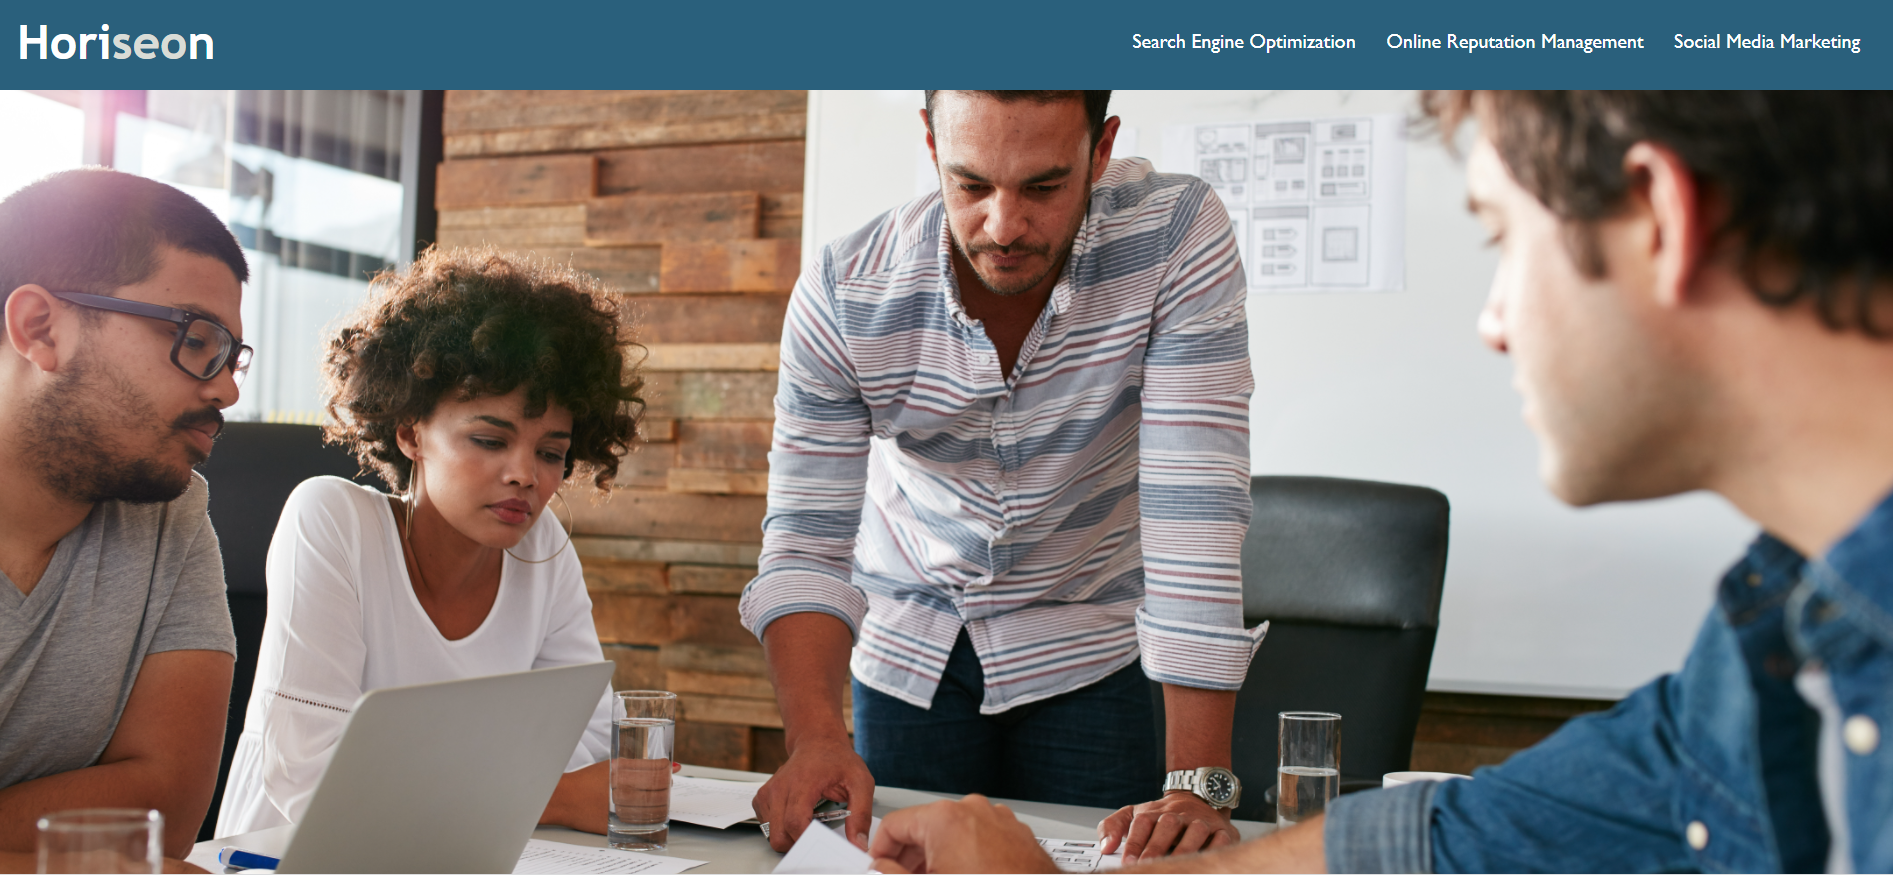
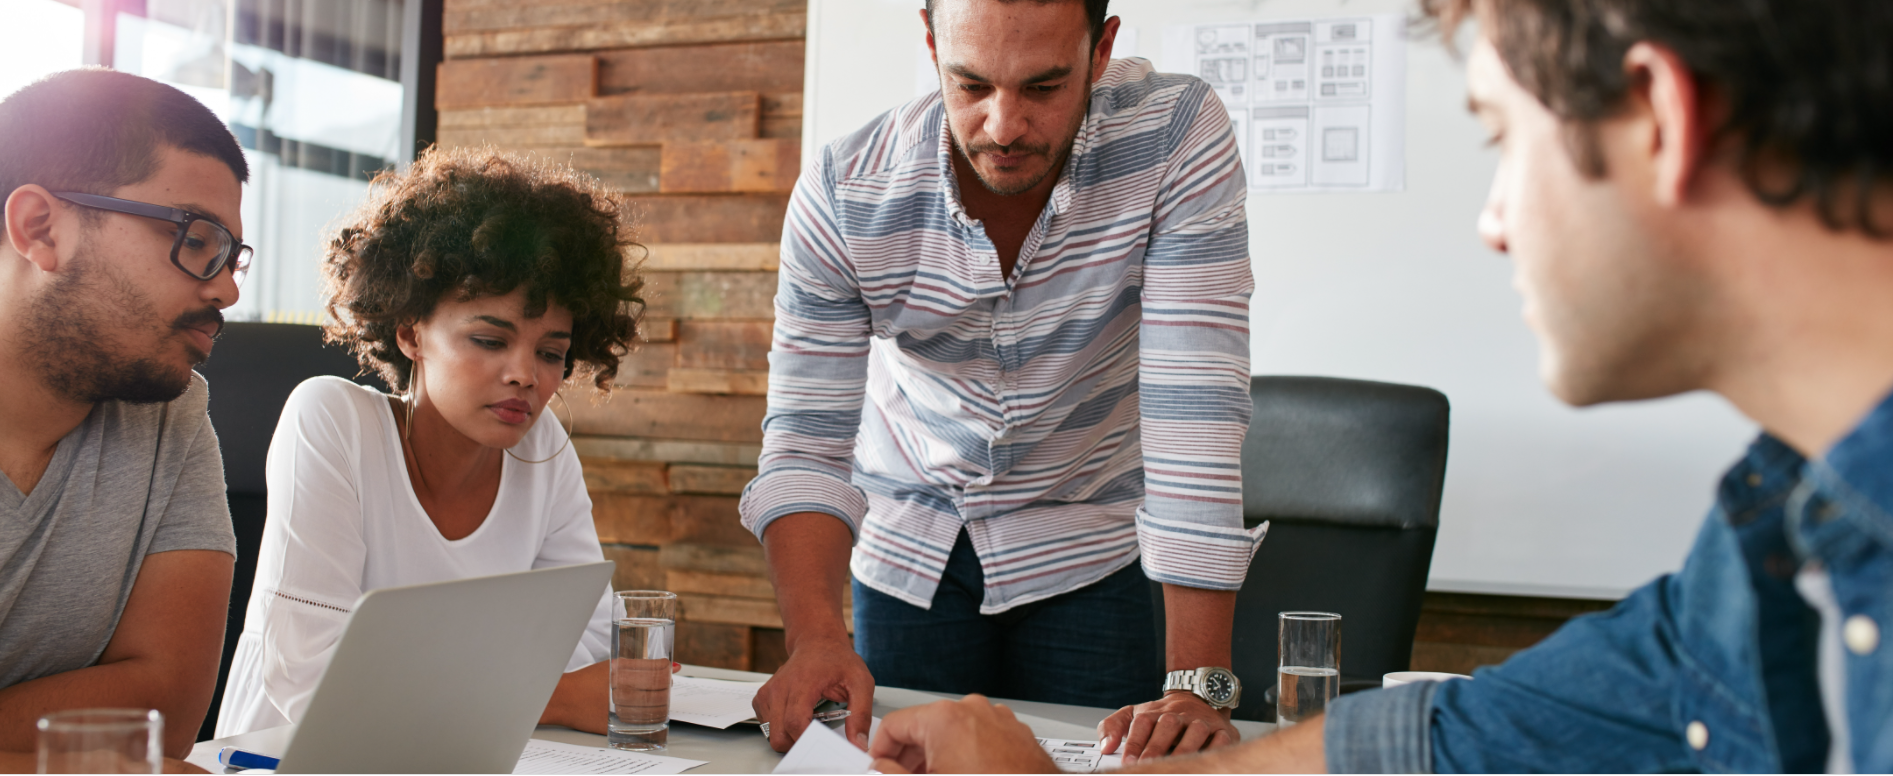
added on this day

diff --git a/assets/style.css b/assets/style.css
@@ -170,11 +170,23 @@ header nav ul li a {
   grid-column: 1/3;
   grid-row: span 2;
   background-image: url("./images/run-buddy.png");
-  background-position: auto;
+  background-position: center;
+  background-repeat: none;
+  background-size: cover;
 }
 
 .horiseon {
   background-image: url("./images/horiseon.png");
+  background-position: center;
+  background-repeat: none;
+  background-size: cover;
+}
+
+.on-this-day {
+  background-image: url(./images/on-this-day.png);
+  background-position: center;
+  background-repeat: none;
+  background-size: cover;
 }
 
 .coming-soon {
@@ -209,6 +221,7 @@ header nav ul li a {
   color: black;
   font-size: 20px;
   text-shadow: var(--shadow);
+  text-decoration: none;
 }
 
 /* @media styles */

diff --git a/index.html b/index.html
@@ -87,13 +87,13 @@
             </div>
           </a>
           <a
-            href="https://www.youtube.com/watch?v=rTgj1HxmUbg"
-            target="_blank"
-            alt="black box says coming soon"
-            class="coming-soon"
+          href="https://safteydav3.github.io/on-this-day/"
+          target="_blank"
+          alt="on-this-day-site"
+          class="on-this-day"
           >
             <div class="project-label">
-              <h3>More Coming Soon</h3>
+              <h3>On This Day</h3>
               <p>HTML/CSS/JavaScript</p>
             </div>
           <a
